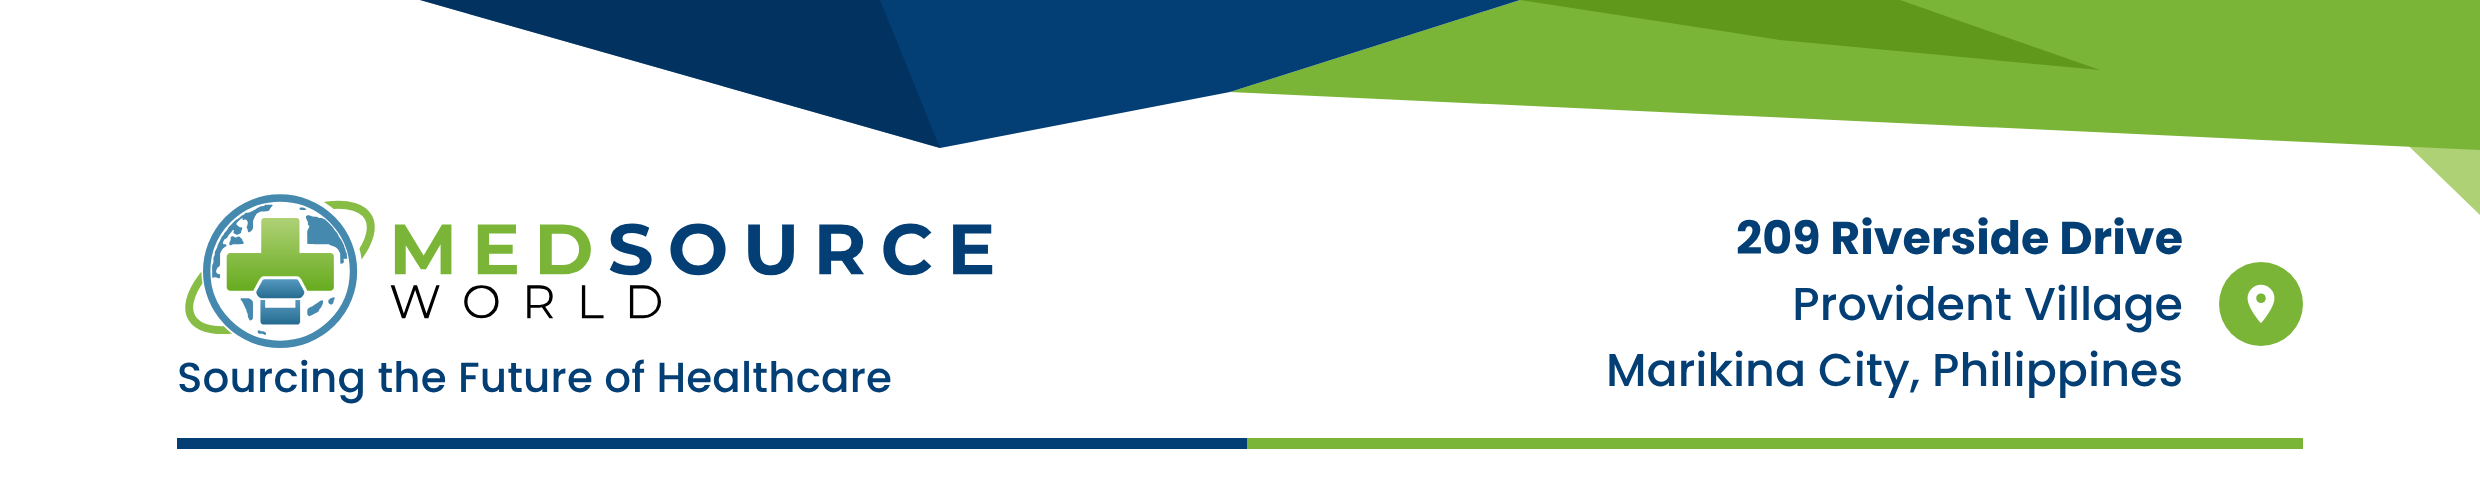
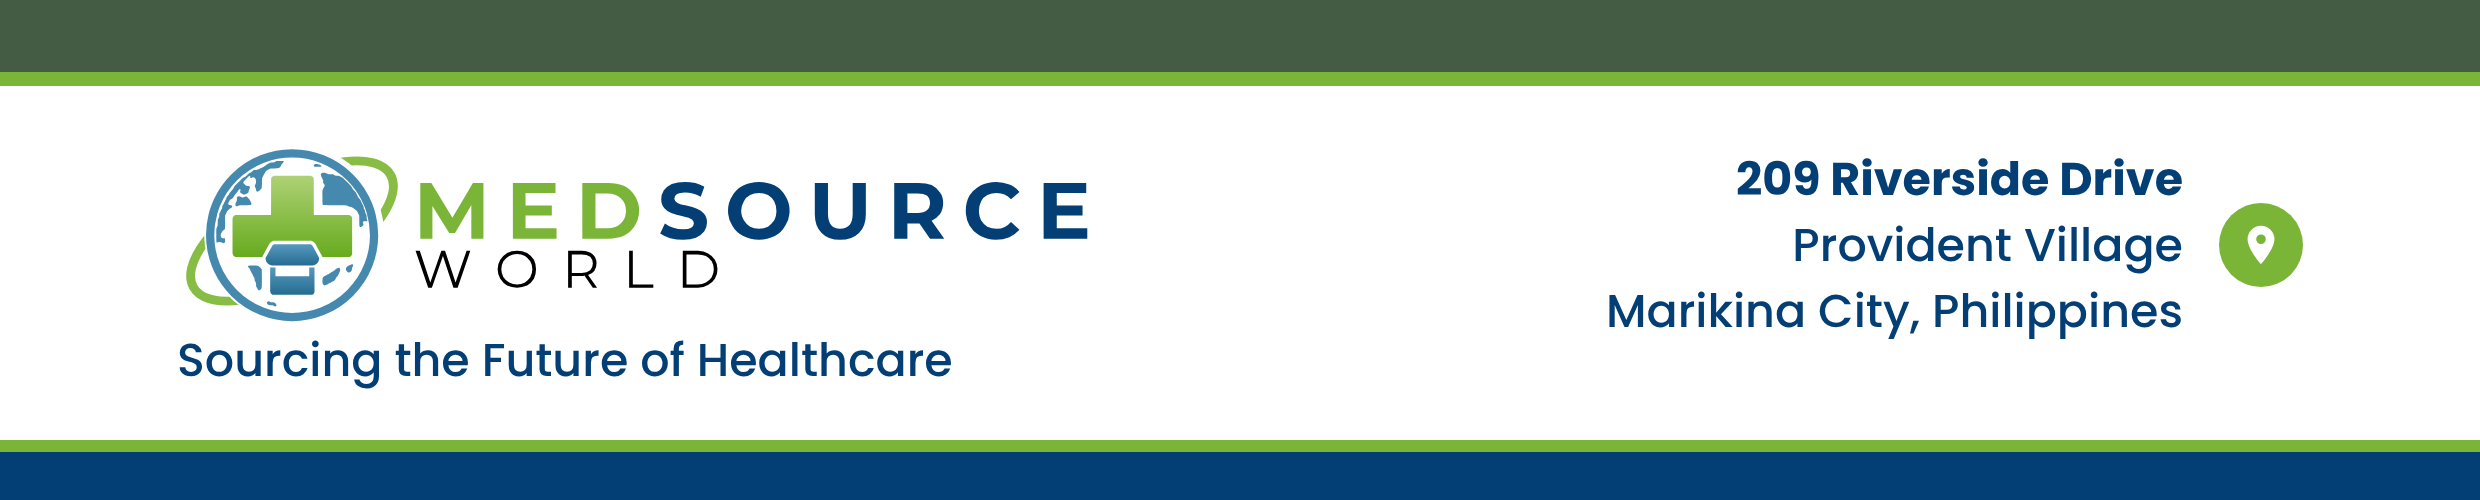
Rework letterhead template to design-system straight bands
Claude-Session: https://claude.ai/code/session_01EwtCANkxHHEVNitzNHyJK3

diff --git a/print/2026-10-legal-letterhead-template/source.html b/print/2026-10-legal-letterhead-template/source.html
@@ -7,83 +7,66 @@
 @font-face{font-family:"Poppins";font-weight:400;src:url("assets/Poppins-Regular.ttf")}
 @font-face{font-family:"Poppins";font-weight:500;src:url("assets/Poppins-Medium.ttf")}
 @font-face{font-family:"Poppins";font-weight:700;src:url("assets/Poppins-Bold.ttf")}
-:root{
-  --forest:#445C44; --green:#7AB537; --leaf:#AFD176; --navy:#033F75; --navydeep:#022A4F;
-  --ink:#1B161F; --white:#FFFFFF;
-}
+:root{--forest:#445C44;--green:#7AB537;--navy:#033F75;--white:#FFFFFF}
 *{box-sizing:border-box;margin:0;padding:0}
 body{background:#888;font-family:"Poppins",sans-serif;display:flex;flex-direction:column;gap:40px;padding:40px;width:2560px}
 .piece{position:relative;width:2480px;background:var(--white);overflow:hidden}
-.piece svg.art{position:absolute;left:0;top:0}
+.band{position:absolute;left:0;width:2480px}
 .tag{position:absolute;white-space:nowrap;font-weight:500;color:var(--navy)}
 
-/* ---------- Header, first page: 2480 x 500 ---------- */
+/* First page header 2480 x 500 */
 #h1{height:500px}
-#h1 .logo{position:absolute;left:177px;top:186px;height:170px}
-#h1 .tag{left:177px;top:350px;font-size:42px;line-height:56px;letter-spacing:.005em}
-#h1 .addr{position:absolute;right:177px;top:205px;display:flex;align-items:center;gap:36px}
+#h1 .logo{position:absolute;left:177px;top:140px;height:190px}
+#h1 .tag{left:177px;top:330px;font-size:46px;line-height:60px}
+#h1 .addr{position:absolute;right:177px;top:150px;height:190px;display:flex;align-items:center;gap:36px}
 #h1 .addr .txt{font-size:46px;line-height:66px;font-weight:500;color:var(--navy);text-align:right}
 #h1 .addr .txt b{font-weight:700}
 #h1 .pin{width:84px;height:84px;border-radius:50%;background:var(--green);display:flex;align-items:center;justify-content:center;flex:none}
 
-/* ---------- Header, later pages: 2480 x 500, smaller, no address ---------- */
+/* Later pages header 2480 x 500, smaller, no address */
 #h2{height:500px}
-#h2 .logo{position:absolute;left:177px;top:156px;height:128px}
-#h2 .tag{left:177px;top:278px;font-size:32px;line-height:44px}
+#h2 .logo{position:absolute;left:177px;top:112px;height:150px}
+#h2 .tag{left:177px;top:258px;font-size:36px;line-height:48px}
 
-/* ---------- Footer: 2480 x 250 ---------- */
+/* Footer 2480 x 250 */
 #f{height:250px}
+#f .left{position:absolute;left:177px;top:14px;height:236px;display:flex;flex-direction:column;justify-content:center;color:#fff}
+#f .left .a{font-size:50px;line-height:66px;font-weight:700;letter-spacing:.02em}
+#f .left .b{font-size:36px;line-height:52px;font-weight:400}
+#f .right{position:absolute;right:177px;top:14px;height:236px;display:flex;align-items:center;color:#fff}
+#f .right .lbl{font-size:30px;line-height:40px;font-weight:500;letter-spacing:.14em;text-align:right;color:var(--green)}
+#f .right .num{font-size:64px;line-height:76px;font-weight:700;text-align:right}
 </style>
 </head>
 <body>
 
-<!-- FIRST PAGE HEADER -->
 <div class="piece" id="h1">
-  <svg class="art" width="2480" height="500" viewBox="0 0 2480 500" xmlns="http://www.w3.org/2000/svg">
-    <polygon points="2000,0 2480,0 2480,215 2330,70" fill="#AFD176"/>
-    <polygon points="1230,92 1520,0 2480,0 2480,150" fill="#7AB537"/>
-    <polygon points="1520,0 1900,0 2100,70 1780,40" fill="#4A7F08" opacity=".55"/>
-    <polygon points="420,0 1520,0 1230,92 940,148" fill="#033F75"/>
-    <polygon points="420,0 880,0 940,148" fill="#022A4F" opacity=".55"/>
-    <polygon points="880,0 1100,0 940,148" fill="#445C44" opacity=".0"/>
-    <rect x="177" y="438" width="1070" height="11" fill="#033F75"/>
-    <rect x="1247" y="438" width="1056" height="11" fill="#7AB537"/>
-  </svg>
+  <div class="band" style="top:0;height:72px;background:var(--forest)"></div>
+  <div class="band" style="top:72px;height:14px;background:var(--green)"></div>
   <img class="logo" src="assets/medsource-world.svg" alt="MedSource World">
   <div class="tag">Sourcing the Future of Healthcare</div>
   <div class="addr">
     <div class="txt"><b>209 Riverside Drive</b><br>Provident Village<br>Marikina City, Philippines</div>
-    <div class="pin">
-      <svg width="46" height="46" viewBox="0 0 24 24"><path fill="#fff" d="M12 2a7 7 0 0 0-7 7c0 5.2 7 13 7 13s7-7.8 7-13a7 7 0 0 0-7-7zm0 9.5A2.5 2.5 0 1 1 12 6.5a2.5 2.5 0 0 1 0 5z"/></svg>
-    </div>
+    <div class="pin"><svg width="46" height="46" viewBox="0 0 24 24"><path fill="#fff" d="M12 2a7 7 0 0 0-7 7c0 5.2 7 13 7 13s7-7.8 7-13a7 7 0 0 0-7-7zm0 9.5A2.5 2.5 0 1 1 12 6.5a2.5 2.5 0 0 1 0 5z"/></svg></div>
   </div>
+  <div class="band" style="top:440px;height:12px;background:var(--green)"></div>
+  <div class="band" style="top:452px;height:48px;background:var(--navy)"></div>
 </div>
 
-<!-- LATER PAGES HEADER -->
 <div class="piece" id="h2">
-  <svg class="art" width="2480" height="500" viewBox="0 0 2480 500" xmlns="http://www.w3.org/2000/svg">
-    <polygon points="2100,0 2480,0 2480,150 2360,50" fill="#AFD176"/>
-    <polygon points="1300,66 1540,0 2480,0 2480,108" fill="#7AB537"/>
-    <polygon points="1540,0 1880,0 2060,50 1800,28" fill="#4A7F08" opacity=".55"/>
-    <polygon points="520,0 1540,0 1300,66 1040,106" fill="#033F75"/>
-    <polygon points="520,0 940,0 1040,106" fill="#022A4F" opacity=".55"/>
-    <rect x="177" y="352" width="1070" height="9" fill="#033F75"/>
-    <rect x="1247" y="352" width="1056" height="9" fill="#7AB537"/>
-  </svg>
+  <div class="band" style="top:0;height:48px;background:var(--forest)"></div>
+  <div class="band" style="top:48px;height:10px;background:var(--green)"></div>
   <img class="logo" src="assets/medsource-world.svg" alt="MedSource World">
   <div class="tag">Sourcing the Future of Healthcare</div>
+  <div class="band" style="top:330px;height:9px;background:var(--green)"></div>
+  <div class="band" style="top:339px;height:32px;background:var(--navy)"></div>
 </div>
 
-<!-- FOOTER -->
 <div class="piece" id="f">
-  <svg class="art" width="2480" height="250" viewBox="0 0 2480 250" xmlns="http://www.w3.org/2000/svg">
-    <polygon points="0,250 0,56 1080,250" fill="#033F75"/>
-    <polygon points="0,126 0,250 540,250" fill="#022A4F" opacity=".6"/>
-    <polygon points="1020,250 1440,160 1730,250" fill="#7AB537"/>
-    <polygon points="1440,160 1730,250 1960,250" fill="#AFD176" opacity=".85"/>
-    <polygon points="1730,250 1960,250 2480,250 2480,222 2150,250" fill="#445C44" opacity="0"/>
-    <rect x="177" y="0" width="0" height="0" fill="none"/>
-  </svg>
+  <div class="band" style="top:0;height:14px;background:var(--green)"></div>
+  <div class="band" style="top:14px;height:236px;background:var(--navy)"></div>
+  <div class="left"><div class="a">MEDSOURCE WORLD</div><div class="b">Importation · Procurement · Distribution</div></div>
+  <div class="right"><div><div class="lbl">CALL / TEXT</div><div class="num">0967 325 3555</div></div></div>
 </div>
 
 </body>

diff --git a/print/2026-10-legal-letterhead-template/print.md b/print/2026-10-legal-letterhead-template/print.md
@@ -8,7 +8,7 @@
 | Status | Draft |
 | Design | Built from the MedSource Design System (MedSource World logo, Poppins). Source: [source.html](source.html) |
 
-Marked as the legal government letterhead template. Based on the old letterhead (diagonal navy and green corners, logo with tagline, split navy and green line). Tagline: Sourcing the Future of Healthcare.
+Marked as the legal government letterhead template. Old letterhead used as basis only (logo with tagline, address with pin). Look follows the design system: straight forest and navy bands with brand-green stripes. Tagline: Sourcing the Future of Healthcare.
 
 ## Files
 
